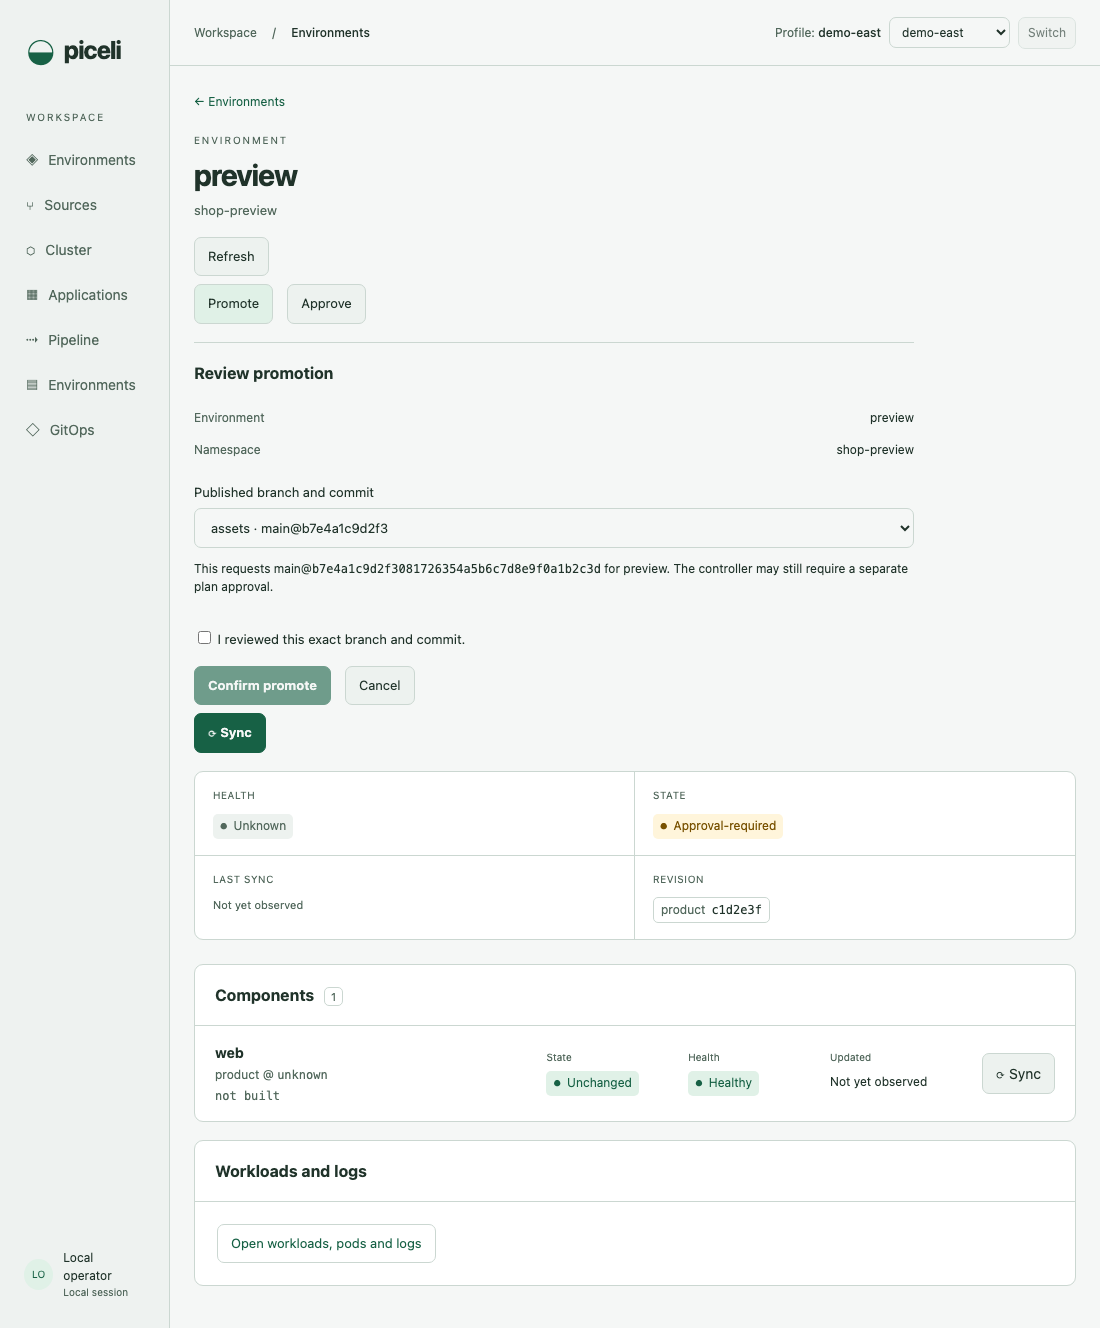
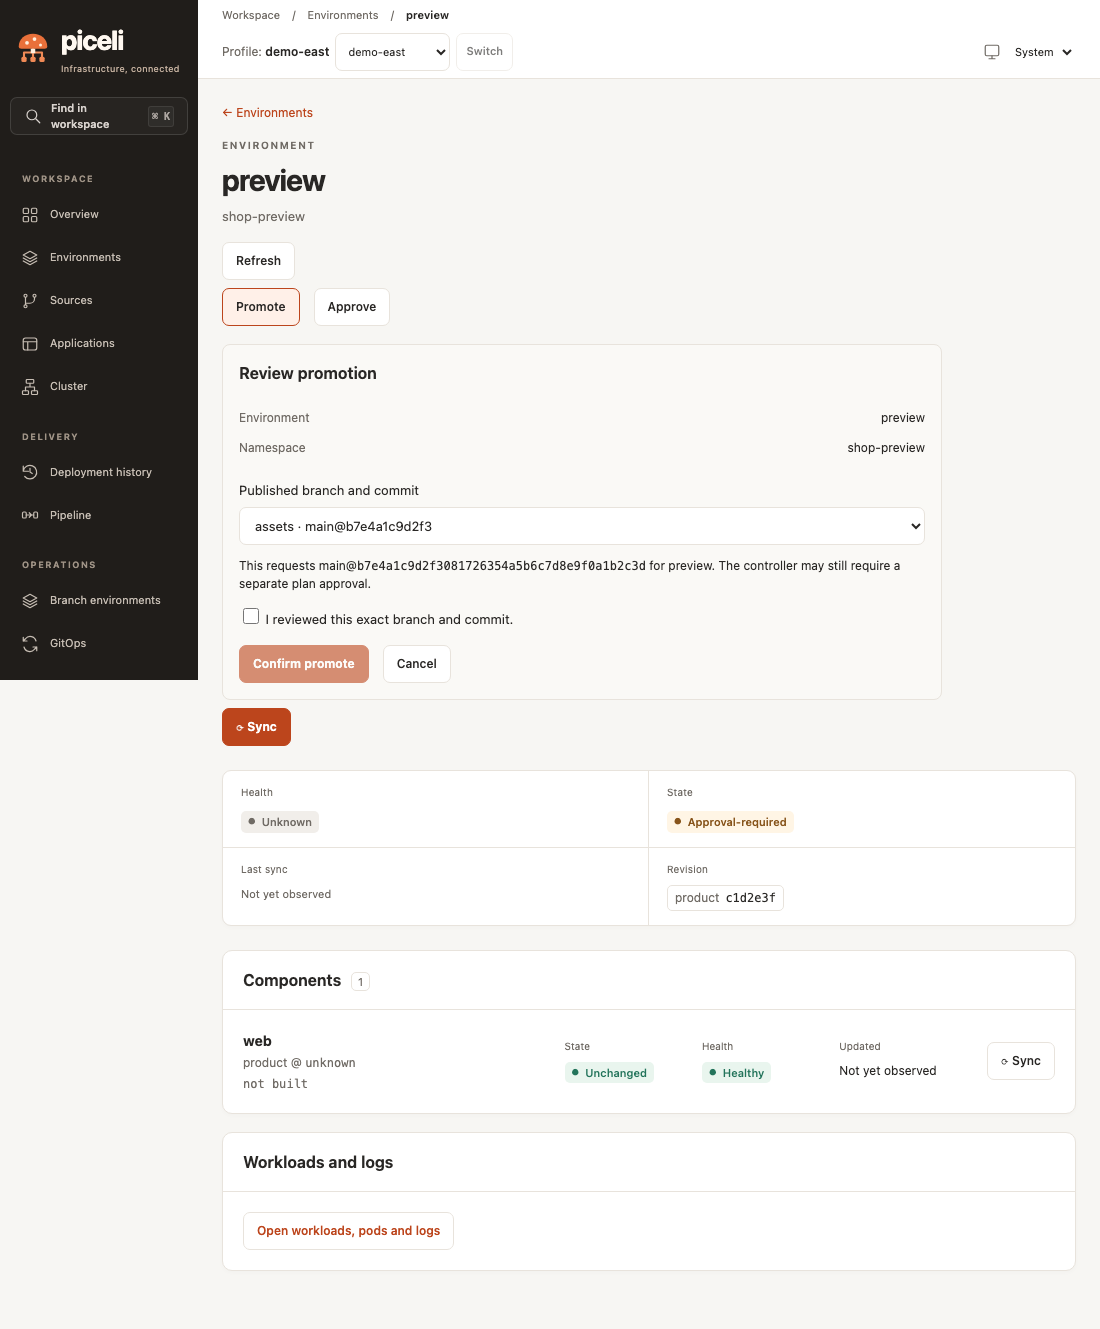
docs(ui): connected workspace, deployment history and refreshed visuals

diff --git a/docs/ui.md b/docs/ui.md
@@ -8,10 +8,184 @@ cluster and you open through a port-forward; or an OIDC-authenticated service
 installed inside a Kubernetes cluster.
 Each mode offers only the actions configured by its operator.
 
+## Open the current UX with one command
+
+From the Piceli checkout:
+
+```sh
+make ui
+```
+
+From the parent workspace, the same command is `make -C repos/piceli ui`.
+It prepares the locked frontend dependencies, builds the current application,
+starts a disposable preview at <http://127.0.0.1:4178> and opens your browser.
+No cluster, profile or credentials need configuring. The preview uses sample
+state from the existing contributor fixture; it serves the production frontend.
+Keep the terminal running and press Ctrl+C when finished.
+
+You can bookmark the preview, open it in another browser or reload any page.
+The disposable preview handles its browser session automatically; there is no
+token to copy. This applies only to the contributor fixture. Real-target services
+retain their launch-token authentication.
+
+If your browser shows **Open Piceli from its launch address**, check that you
+opened the preview address above while `make ui` is running. An old address may
+point at a different local Piceli service. To choose another port, run
+`make ui PICELI_UI_PREVIEW_ARGS='--port 4180'`. If the default port is busy, the
+preview picks a free port and opens and prints its actual address. An explicitly
+requested busy port produces an error. Existing services are left running.
+
+To print the address without opening the default browser, use
+`make ui PICELI_UI_PREVIEW_ARGS='--no-browser'`.
+
+## Workspace navigation
+
+The workspace uses a compact vector adaptation of Piceli's mushroom/network
+mark, warm neutral surfaces and orange
+navigation accents. Available pages are grouped into Workspace, Delivery and
+Operations. **Cluster** is in Workspace at `/cluster`, with the existing nodes,
+controller, registry and UI status. Use **Find in workspace** or **Ctrl/⌘ K** to jump to an application,
+environment, component or page. Search loads its data only when opened.
+Applications can be scanned as cards or a table, with filters for reported
+problems, available changes and unknown or stale observations. Search, target,
+state and layout stay in the address when shared or reloaded. The appearance
+picker offers Light, Dark and System, and remembers the choice in this browser.
+
+Composition sessions open directly on the infrastructure Overview. Its compact
+environment switchboard keeps scope, state and revisions visible above the canvas.
+Expand the explorer for more space; drag its background or use the zoom controls
+and keyboard to navigate. Escape returns to the overview and its original focus.
+Overview has three views:
+
+- **Topology** maps reported sources to components and environments. Select a
+  node to inspect its configuration, state, commit and image digest, then open
+  its environment or workloads. Show one environment or the whole composition;
+  use zoom, Fit width and arrow-key navigation to explore the graph.
+- **Versions** compares two environments side by side. Exact commits and image
+  digests establish matches and differences; missing observations stay unknown.
+  Known GitHub repositories link to their exact commits and comparisons. A
+  different revision does not by itself establish which version is newer.
+- **Attention** separates reported errors and unhealthy components from pending
+  approvals and lifecycle states. Each item links to its environment or selected
+  component. It reflects the current snapshot, not an incident archive.
+
+Selections and version comparisons survive reload through the page address.
+The selected component shows its matching source refs and counterparts in other
+environments, with exact version comparisons and links back into the graph.
+The environment inventory remains at `/composition`, with its existing Sync,
+Promote, Approve and Wake flows; a collapsed copy is available below the overview.
+Sources uses compact rows for repository, tracked refs, polling status and
+reported environment/component associations. Full commit identities remain
+available through keyboard-accessible disclosure controls. Search covers the
+repository, refs, full revisions and connected components, and survives reload.
+Environment and component links lead directly back into the topology.
+Application pages link back to their controller-reported environment
+and components, using the application identity rather than namespace guesses.
+
+Resources offers Table and Relationships. The diagram connects resources only
+through observed owner UIDs, not guessed service or network dependencies.
+Kind icons, ownership lanes, zoom and a selected-neighborhood filter help trace
+a workload to its controller and pods. Independent networking and configuration
+resources stay separate. Large inventories retain the virtualized ownership
+outline. Selecting a resource opens the same inspector, logs and access panels;
+Escape restores focus to the selected resource. Unknown, stale and partial
+observations remain distinct from healthy or empty state.
+Application Overview starts with the ownership graph; Resources retains its
+table/diagram choice. Compact application headers leave more room for the
+workload evidence. The inspector connects observed owner and child objects and
+presents permitted container, image, port and condition information together.
+
+Deployment review provides a searchable resource list and before/after field
+changes beside the exact approval context. Full unified evidence remains
+available. Activity presents recorded operations as a timeline with search and
+an attention filter; each run links to its plan and any available recovery.
+The deployment sequence shows the engine's actual action order and dependency
+levels. Select a resource to inspect its dependencies and recorded operation;
+objects removed after apply remain distinguishable from dependency levels.
+Run pages connect this sequence to recorded resource transitions, recorded write times and
+outcomes, with the original journal evidence available alongside the visual view.
+Raw log tails appear only when the execution recorded and safely published them;
+unavailable output is stated explicitly. Captured pod output requires the same
+logs authorization as live logs; activity access alone does not grant it. Journal
+transitions retain sequence numbers because event timestamps are not recorded.
+
+Open **Delivery → Deployment history** (`/delivery`) and select an application:
+
+- **Plans** lists saved reviews, including expired plans and plans without a
+  recorded run. Search, filters and sorting apply to loaded pages; load more to
+  inspect older records. **Open plan** leads to its ordered deployment steps,
+  dependency levels and per-resource changes without evaluating source again.
+  The same archive is available in each application's **Plans** tab.
+- **Runs & logs** lists recorded execution outcomes and recovery links.
+  **Open logs** opens and focuses the run's captured-log panel directly.
+  The run retains its visual transitions and raw journal alongside captured logs.
+- **Compare revisions** compares desired configurations across recorded runs.
+
+This archive reads plans saved by the UI service. It does not discover arbitrary
+CLI plan files or recover terminal output that was never recorded. Recorded-run
+links require matching application, plan and approval digest; missing or partial
+run evidence is labelled explicitly.
+
+In **Deployment history → Compare revisions** (also **Activity → Compare revisions**), choose two recorded plans to compare their
+stored desired configurations. Each side shows its source revision, release,
+exact plan identity and recorded run outcome. Added and removed resources and
+before/after field values are searchable. The comparison is read-only and does
+not renew an expired approval. A failed run's desired configuration does not
+imply that the changes reached the cluster. Older records without complete
+snapshots, redacted fields and mismatched targets remain explicit gaps.
+
+History readers can inspect an exact recorded plan without permission to
+evaluate source or deploy. New review preparation still requires evaluation
+capability. Named-environment acknowledgements bind to the exact reviewed
+environment, action and identity; a changed plan hash needs acknowledgement again.
+Pipeline previews and materialized rollout plans remain separate approvals;
+an open expired plan cannot be approved. No workflow or cluster configuration
+is inferred from the layout.
+
+## Run the current application from a checkout
+
+```sh
+make ui-install
+make ui-serve PICELI_UI_ARGS='--kubeconfig /absolute/path/config --context CONTEXT --namespace NAMESPACE'
+```
+
+`ui-serve` builds the production browser assets and starts `piceli ui serve`
+with those explicit arguments. Replace the example target with your own;
+the command does not choose an ambient context. A saved credential profile
+can be passed with `PICELI_UI_ARGS='--profile NAME'` instead. Open the exact
+launch URL printed by the process, including its one-time token. Ctrl+C stops
+the server. For an already installed composition UI, use `piceli access ui`
+with its explicit cluster declaration as described below.
+
 ## What it shows
 
 The screenshots come from `make ui-clips`, which records fixed journeys on a
 disposable fake Kubernetes API (no real cluster or credential).
+
+```{image} _static/ui/composition-overview.png
+:alt: Piceli infrastructure canvas connecting sources, components and environments beside a selected component inspector
+:width: 720px
+```
+
+```{image} _static/ui/environment-versions.png
+:alt: Comparing exact commits and image digests between two environments
+:width: 720px
+```
+
+```{image} _static/ui/recorded-plan.png
+:alt: Recorded plan with per-resource before and after values and its exact approval context
+:width: 720px
+```
+
+```{image} _static/ui/recorded-revisions.png
+:alt: Comparing two recorded source revisions with desired resource configuration changes
+:width: 720px
+```
+
+```{image} _static/ui/recorded-journal.png
+:alt: Recorded deployment resource transitions with captured diagnostic logs and raw journal evidence
+:width: 720px
+```
 
 ```{image} _static/ui/applications.png
 :alt: The Applications page of the Piceli web UI
@@ -59,6 +233,12 @@ cannot deploy.
 
 For service and browser acceptance with that fake API, run `make test-ui-fake`
 (`make test-ui-composition` runs only the composition journeys).
+`make test-browser-harbor` checks composition selection, source associations,
+application filters/layout, appearance and resource inspector continuity at
+three viewport sizes, using the disposable showcase service.
+`make test-browser-connected` checks the infrastructure graph, version
+comparisons, attention links, workspace search and state filters at the same
+sizes. `make ui-clips` records these journeys into an ignored gallery.
 It uses port 4184 by default (`PICELI_UI_FAKE_TEST_PORT` changes it) and checks
 desktop, tablet and phone. The test runner removes its servers, browser state
 and temporary files on exit.

diff --git a/docs/changelog.md b/docs/changelog.md
@@ -4,6 +4,60 @@ The changelog documents the history of changes and version releases for Piceli.
 
 For detailed information on each version, please visit the [Piceli GitHub Releases page](https://github.com/pynenc/piceli/releases).
 
+## Unreleased
+
+- **History discovery:** a first-level Deployment history destination and an
+  application Plans tab expose paginated saved plans, including expired plans
+  and plans with no recorded run. Exact plan/run identities connect reviews,
+  revision comparison and direct captured-log links; existing authorization
+  and approval checks remain in place.
+- **Denser navigation:** Sources presents refs, polling and environment/component
+  connections in compact searchable rows. Cluster returns to the Workspace
+  group, and a simplified vector mushroom/network mark fits the sidebar and
+  browser icon.
+
+- **Deployment evidence:** ordered resource steps and dependencies from the
+  engine plan, recorded execution transitions with visual and raw evidence,
+  and read-only comparison of desired configurations across recorded revisions.
+  Source revisions, exact plan identities and run outcomes stay connected;
+  missing historical snapshots and redacted fields are reported explicitly.
+
+- **Infrastructure explorer:** composition sessions now open on the graph.
+  An environment switchboard, expanded canvas and compact application headers
+  bring infrastructure into the first viewport. Inspectors connect exact
+  versions across environments and navigate observed resource owners/children;
+  runtime pages link back to their published composition identity.
+- **Connected workspace:** original Piceli branding with warm orange accents;
+  a source/component/environment canvas with node inspection, zoom and keyboard
+  navigation; exact environment version comparison and contextual GitHub links;
+  separate views for reported problems, decisions and lifecycle states.
+- **Navigation and evidence:** on-demand Ctrl/⌘ K workspace search, URL-backed
+  application state filters, resource ownership lanes and neighborhood focus,
+  searchable per-resource before/after changes, and recorded-operation timelines.
+- **Review continuity:** history readers can open an exact recorded plan without
+  source-evaluation permission; preparing or executing a new review still needs
+  its existing capability. Named-environment confirmation binds to the exact
+  environment, action and reviewed identity, including refreshed plan hashes.
+- **Web UI:** Harbor workspace layout with grouped capability-aware navigation,
+  application cards/table, compact environments, a composition overview and
+  selected component evidence. Resource relationships use observed owner UIDs;
+  source associations use reported source identity. Existing routes, inspection,
+  logs, access, sync and reviewed actions remain available.
+- **Review:** separate plan evidence and exact approval context, real Pipeline
+  stage progression and cluster-build placement. Changing the plan identity or
+  digest clears acknowledgement; open expired Pipeline/build plans stop being
+  approvable without waiting for a page refresh.
+- **Appearance:** responsive layouts and a remembered Light/Dark/System choice,
+  using bundled assets without external fonts or diagram dependencies.
+- **Contributors:** `make ui-serve PICELI_UI_ARGS='...'` builds and starts the
+  current UI for an explicit target; `make test-browser-harbor` covers the new
+  workspace journeys at desktop, tablet and phone sizes.
+- **One-command preview:** `make ui` prepares the frontend, starts disposable
+  sample state and opens the current UI at `http://127.0.0.1:4178`.
+  Plain bookmarks and fresh browsers work without copying a token; only the
+  disposable fixture bootstraps its session automatically. Real-target
+  authentication is unchanged. No cluster setup is needed.
+
 ## Version 0.14.3
 
 - **Branch environments may reach the API server:**
